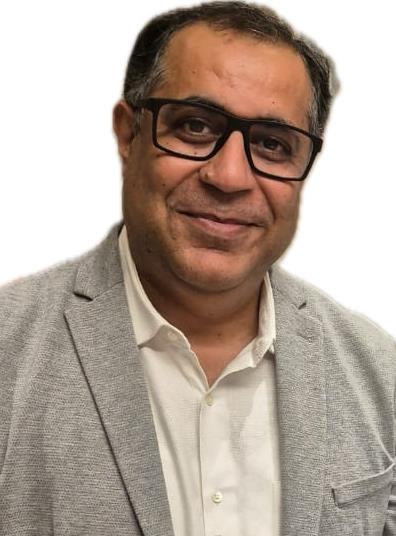
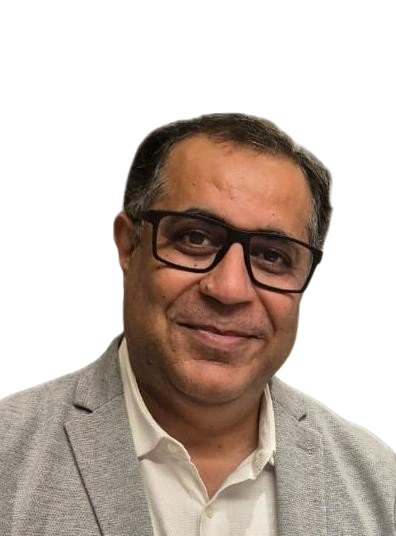
removed sponsor

diff --git a/components/sections/speakers.tsx b/components/sections/speakers.tsx
@@ -9,7 +9,7 @@ const speakers = [
     name: 'Kapil Uniyal',
     title: 'Head of Google Cloud Services  Digital Solutions, Vice President - APACA',
     company: 'TELUS Digital',
-    image: '/speakers/Kapil Uniyal.jpeg',
+    image: '/speakers/Kapil Uniyal.png',
   },
   {
     name: 'Sunil Golani',

diff --git a/app/page.tsx b/app/page.tsx
@@ -29,7 +29,7 @@ export default function Home() {
         {/* <ChiefGuestSection /> */}
         <About />
         <Agenda />
-        {/* <Speakers /> */}
+        <Speakers />
         <AssociationPartners />
         <Partners />
         
